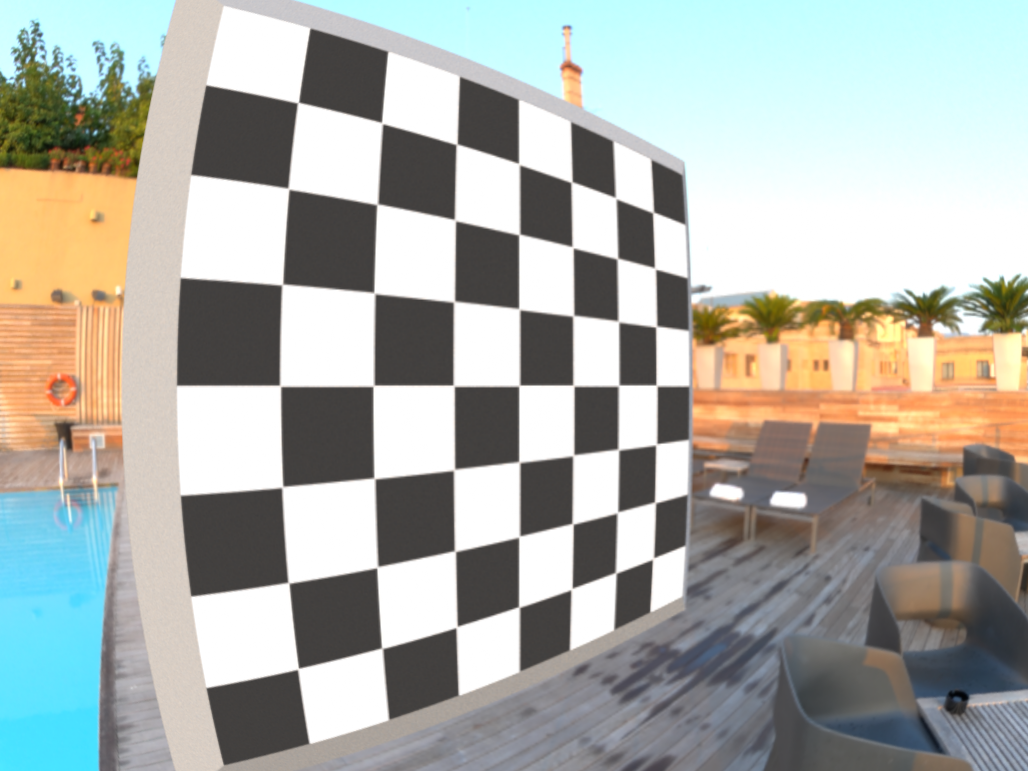
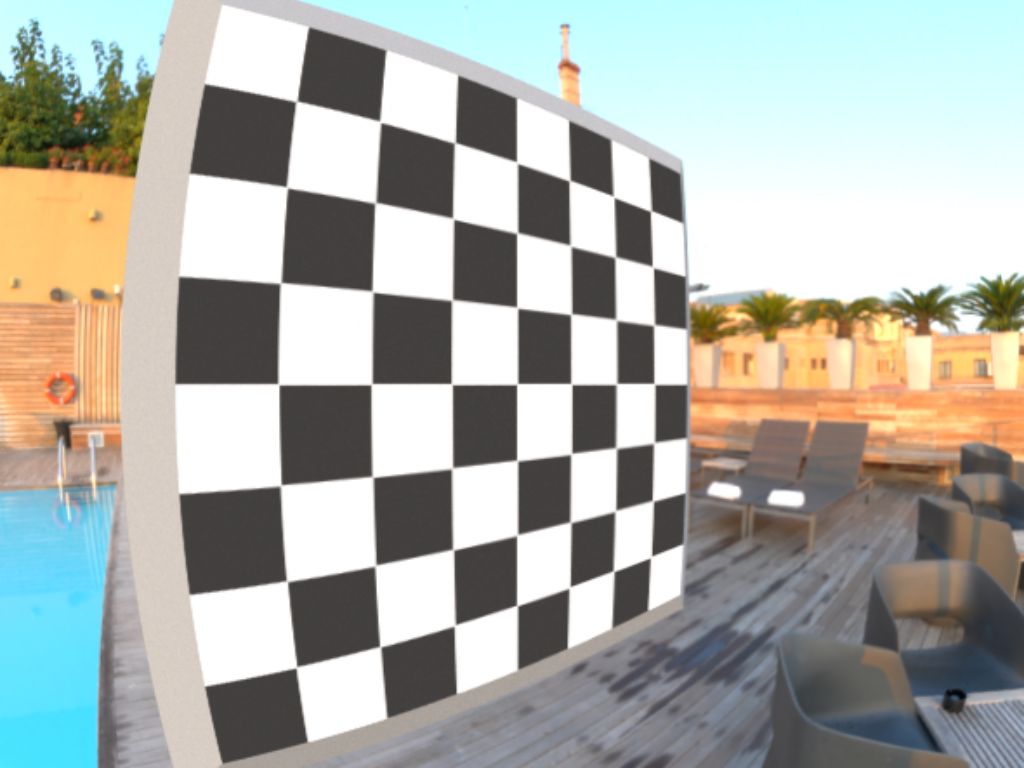
added resizing of output

diff --git a/apply_fisheye_distortion.py b/apply_fisheye_distortion.py
@@ -1,11 +1,3 @@
-"""This script creates fisheye distortion in images, using the OpenCV 4.4 fisheye camera model
-
-Look at equations in detailed description at:
-https://docs.opencv.org/4.4.0/db/d58/group__calib3d__fisheye.html
-Note: fisheye is a new module that is different from old OpenCV 2.4 distortion equations
-
-The dir of images to convert must contain the camera intrinsics, in pixels, in a text file.
-"""
 import argparse
 from pathlib import Path
 
@@ -73,9 +65,19 @@ def distort_image(img: np.ndarray, cam_intr: np.ndarray, dist_coeff: np.ndarray)
 
 
 def main(args):
-    dir_images = Path(args.dir_images)
-    dir_output = Path(args.dir_output)
-    config_file = Path(args.config_file)
+    """This script creates fisheye distortion in images, using the OpenCV 4.4 fisheye camera model
+    Look at equations in detailed description at: https://docs.opencv.org/4.4.0/db/d58/group__calib3d__fisheye.html
+
+    The dir of images to convert must contain the camera intrinsics, in pixels, in a text file.
+    The dimensions of output of distortion is ~58% of input image and may not be of the exact same aspect ratio due
+    to rounding of pixel co-ordinate. To counter that, we resize the output according to config file.
+
+    Args:
+        args: object from argparse
+    """
+    dir_images = args.dir_images
+    dir_output = args.dir_output
+    config_file = args.config_file
     ext_images = args.ext_images
 
     if not dir_images.exists() or not dir_images.is_dir():
@@ -97,14 +99,21 @@ def main(args):
     print(f'Loaded camera intrinsics: \n{K}')
 
     with open(config_file) as fd:
-        dist = yaml.load(fd, Loader=yaml.Loader)
+        config = yaml.load(fd, Loader=yaml.Loader)
+    dist = config['distortion_parameters']
     D = np.array([dist['k1'], dist['k2'], dist['k3'], dist['k4']])
     print(f'Loaded distortion coefficients: {D}')
+
+    resize_h = int(config['resize_output']['h'])
+    resize_w = int(config['resize_output']['w'])
 
     for f_img in image_filenames:
         img = cv2.imread(str(f_img))
 
         dist_img = distort_image(img, K, D)
+        if resize_h > 0:
+            dist_img = cv2.resize(dist_img, (resize_w, resize_h), cv2.INTER_CUBIC)
+
         out_filename = dir_output / f"{f_img.stem}.dist{f_img.suffix}"
         retval = cv2.imwrite(str(out_filename), dist_img)
         if retval:
@@ -120,7 +129,7 @@ if __name__ == "__main__":
     parser.add_argument('-e', '--ext_images', default='.rgb.png', help='Filename extention of images to convert')
     parser.add_argument('-o', '--dir_output', type=Path, required=True,
                         help='Path to save output images', metavar='path/to/dir')
-    parser.add_argument('-c', '--config_file', default='distortion_parameters.yaml',
+    parser.add_argument('-c', '--config_file', type=Path, default='config.yaml',
                         help='Path to config file with distortion params', metavar='path/to/config.yaml')
     args = parser.parse_args()
     main(args)
